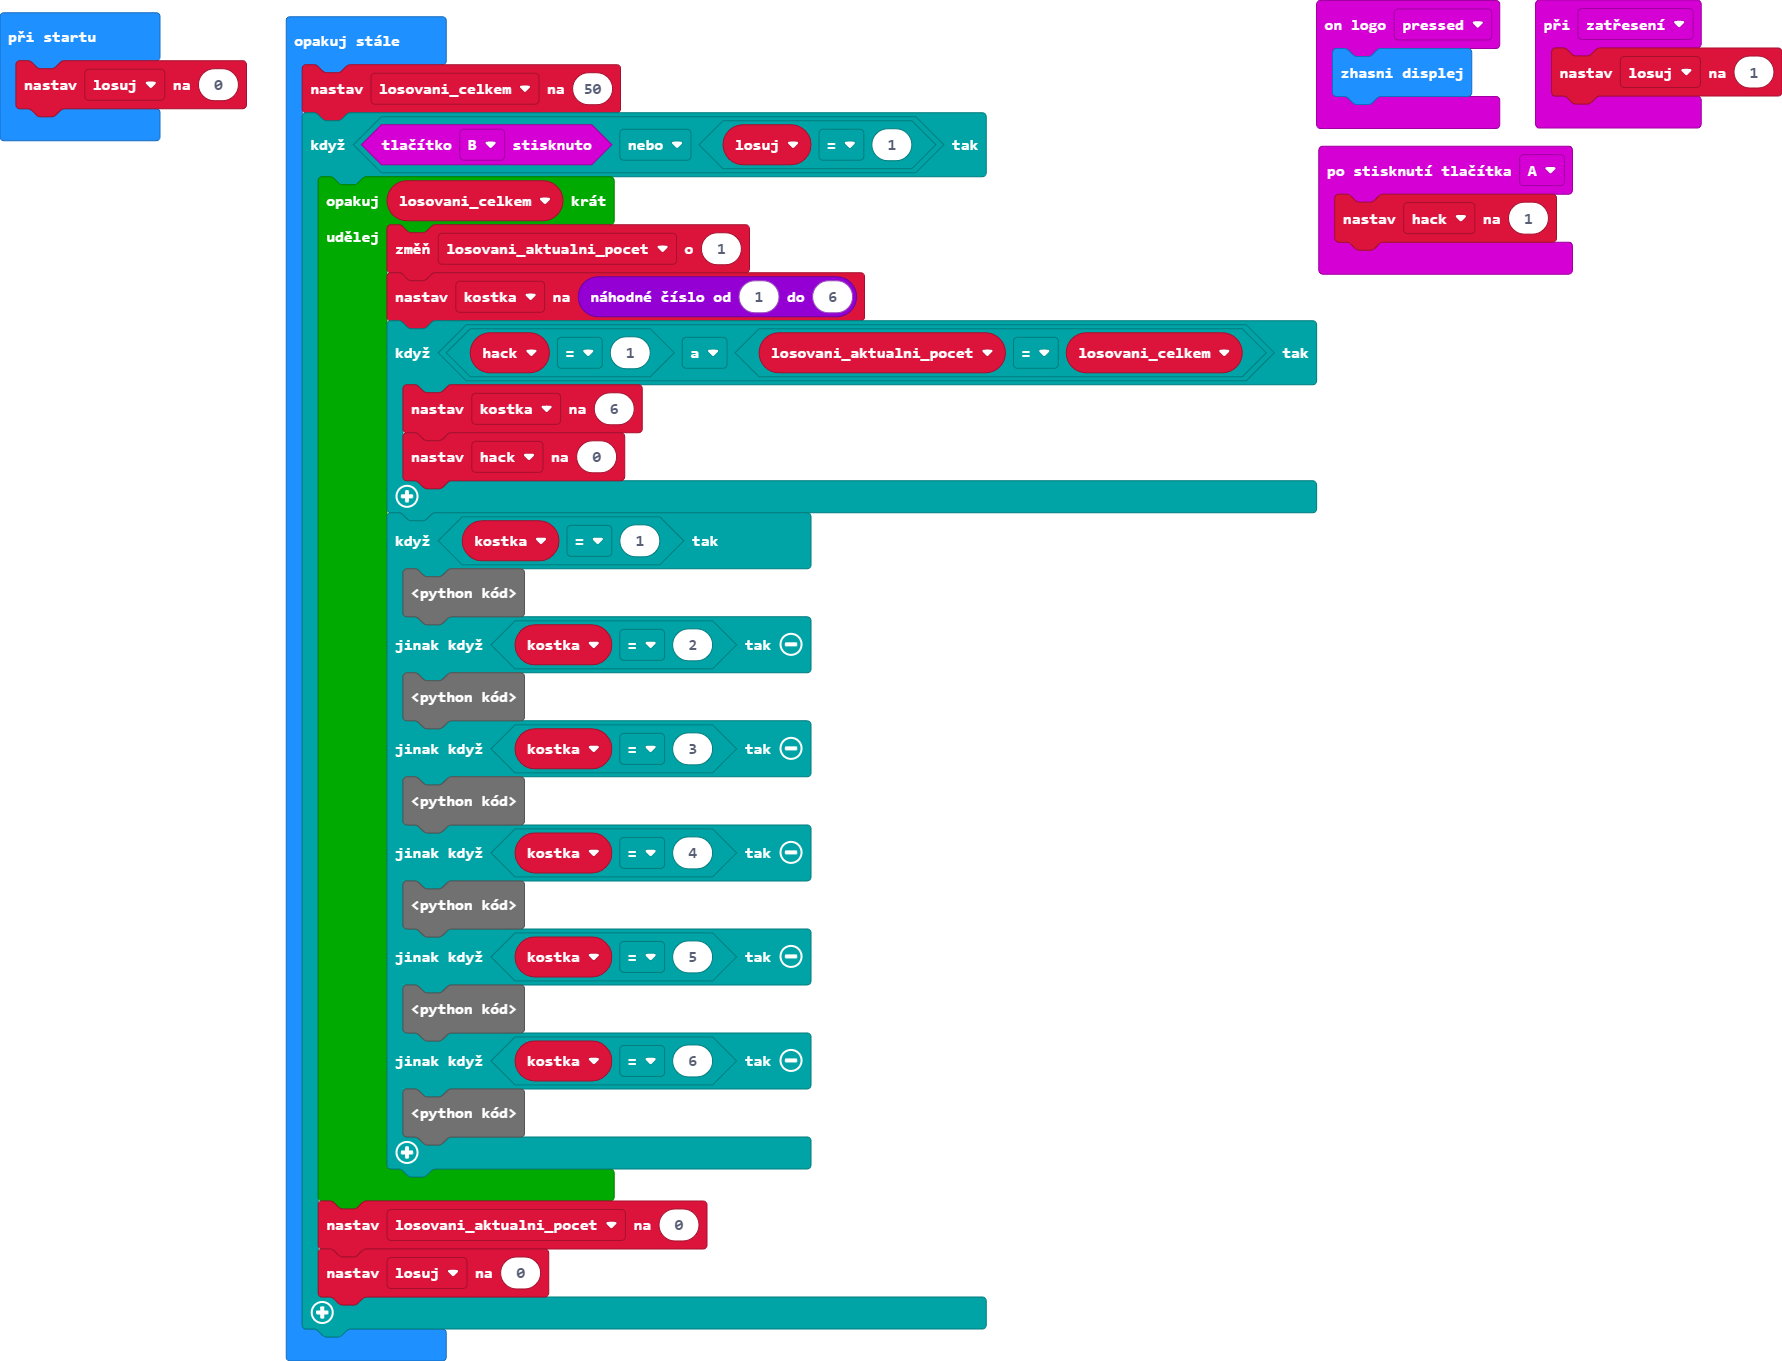
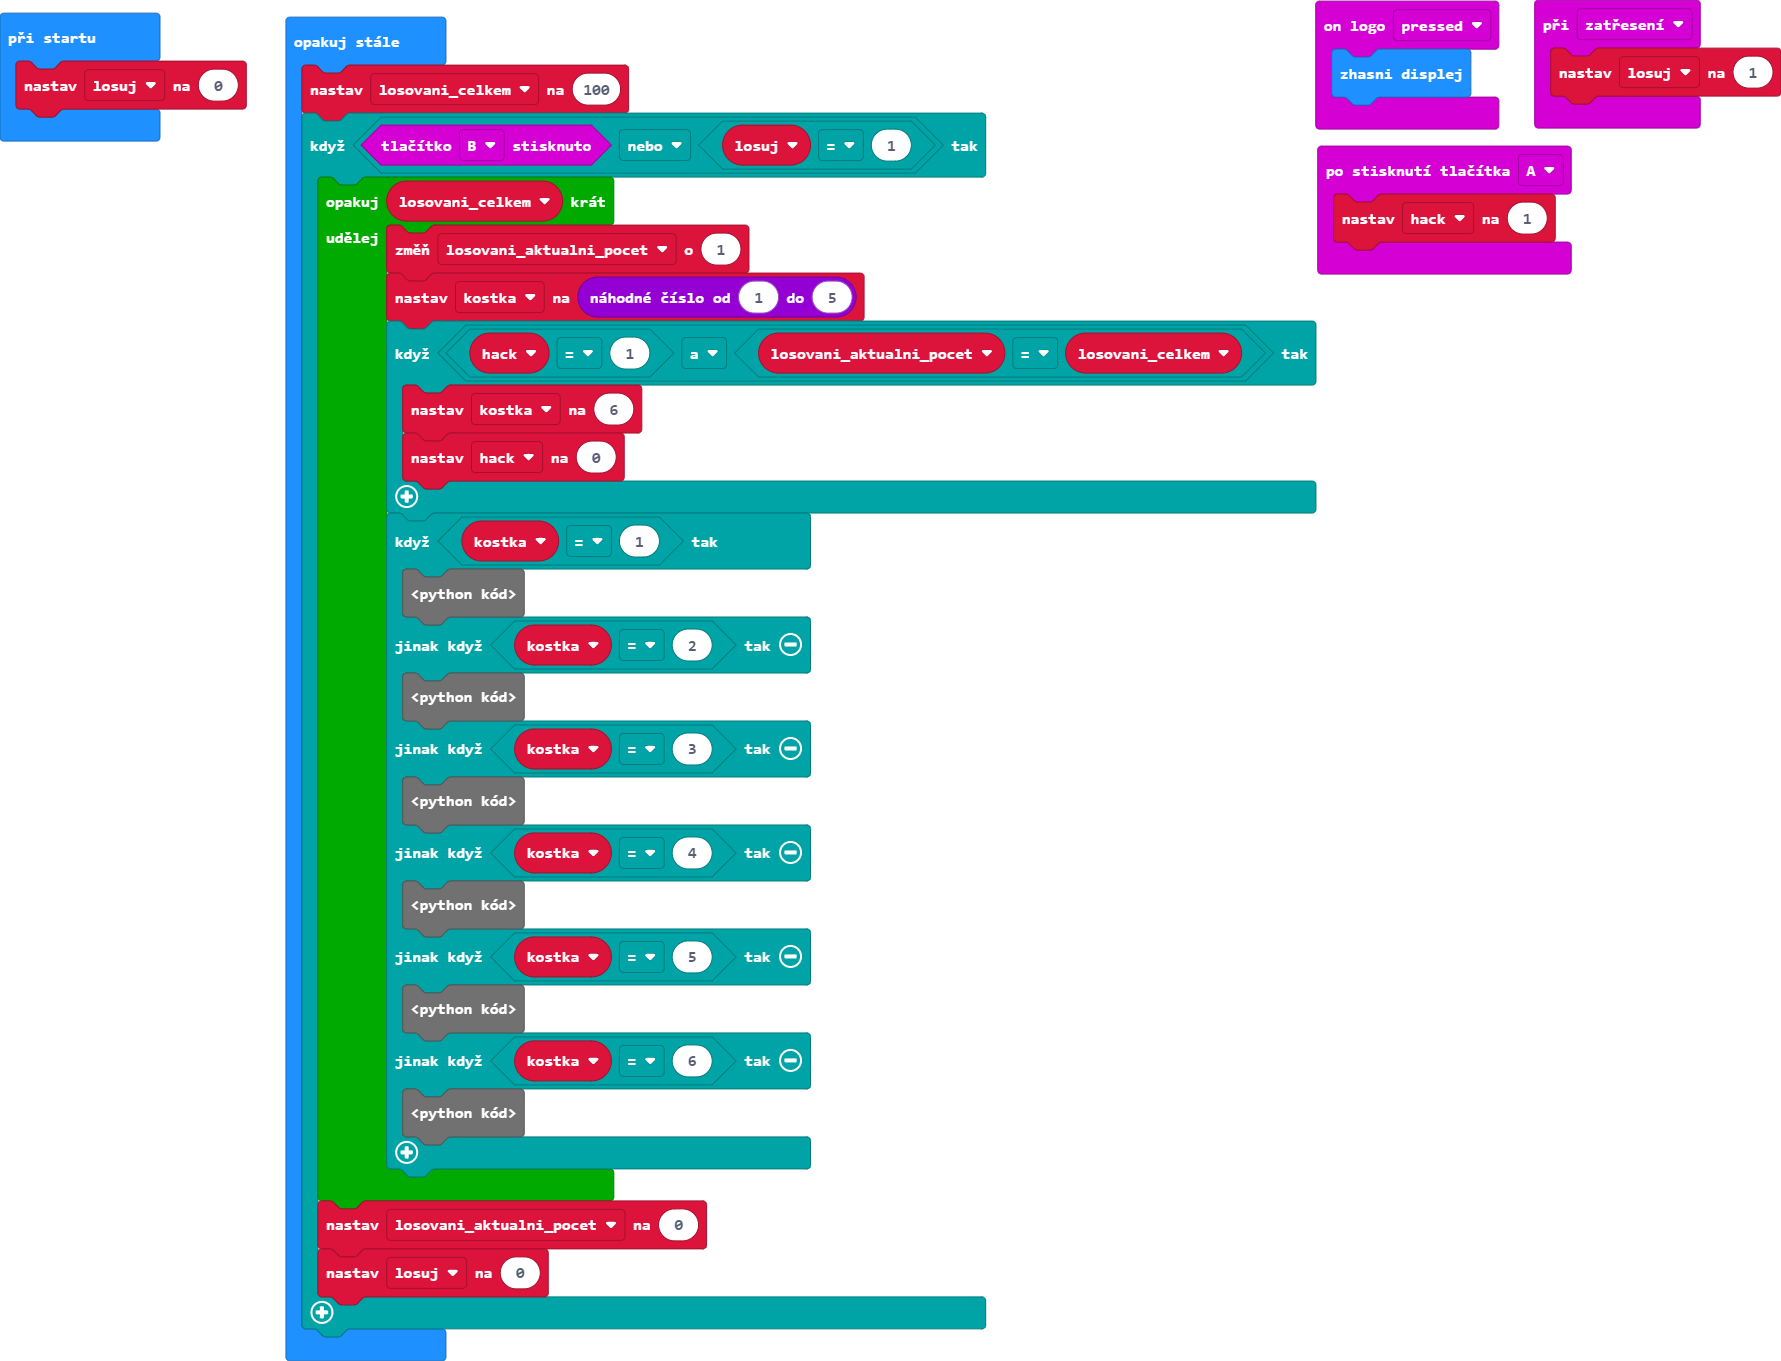
Aktualizovat main.blocks, main.ts

diff --git a/main.ts b/main.ts
@@ -14,11 +14,11 @@ let hack = 0
 let losuj = 0
 losuj = 0
 basic.forever(function () {
-    losovani_celkem = 50
+    losovani_celkem = 100
     if (input.buttonIsPressed(Button.B) || losuj == 1) {
         for (let index = 0; index < losovani_celkem; index++) {
             losovani_aktualni_pocet += 1
-            kostka = randint(1, 6)
+            kostka = randint(1, 5)
             if (hack == 1 && losovani_aktualni_pocet == losovani_celkem) {
                 kostka = 6
                 hack = 0
